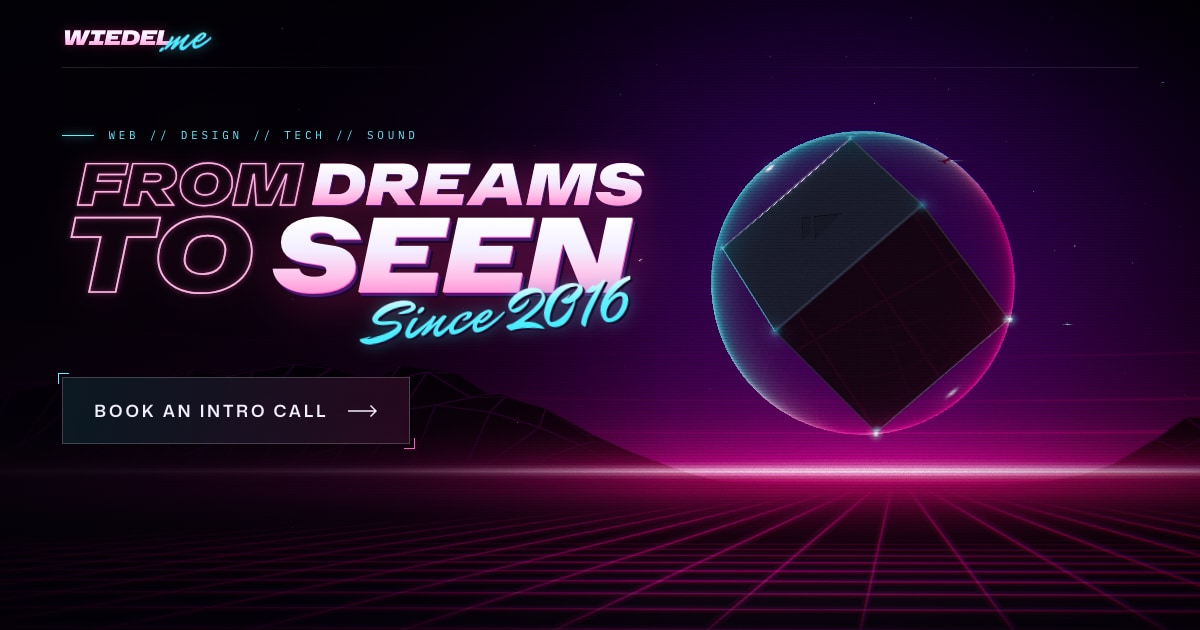
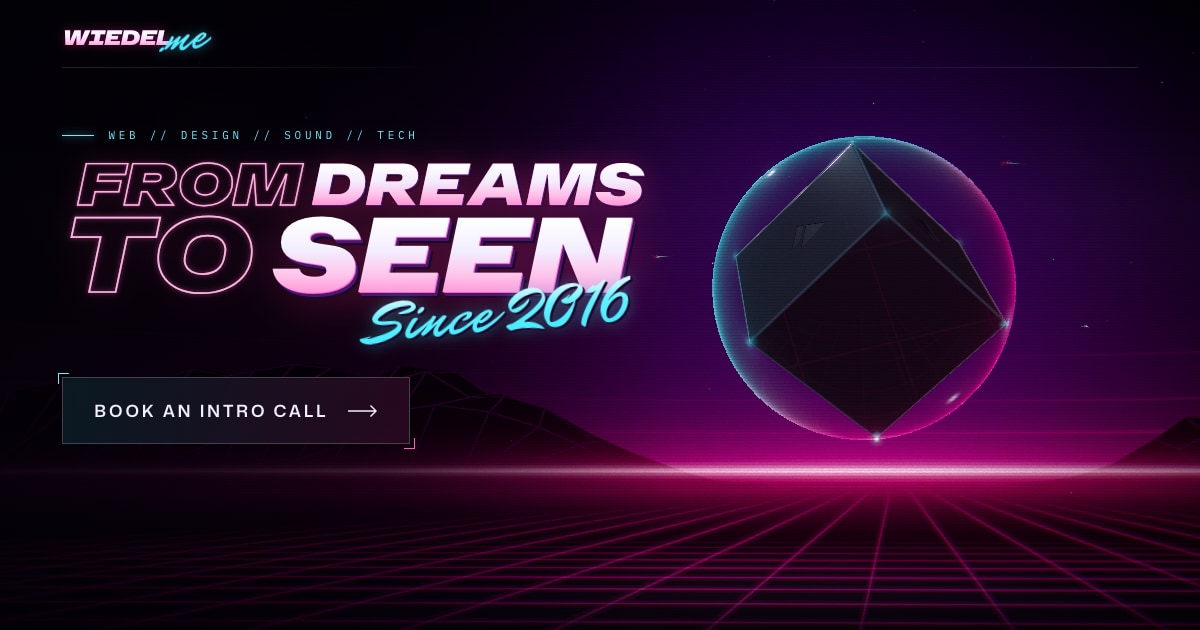
reorder the four areas to web, design, sound, tech
The title, the hero eyebrow, the footer note, the profile tags and the
numbered services (Sound is now 03, Tech 04) all follow the new order,
as do the meta and structured-data descriptions, the Services intro and
the README. The About paragraph now goes to the decks first, then
"when the music stops" to keeping your tech running. The share image is
recaptured with the new eyebrow and its alt text follows.

diff --git a/lib/services.ts b/lib/services.ts
@@ -24,7 +24,7 @@ export const homeServices: ServicesCopy = {
   title: ["Here’s what", "I can do"],
   script: "for you.",
   intro:
-    "Need a new website, a fresh logo, help with your tech, or a DJ for your next event? Whatever it is, you work directly with me from start to finish.",
+    "Need a new website, a fresh logo, a DJ for your next event, or help with your tech? Whatever it is, you work directly with me from start to finish.",
   services: [
     {
       num: "01 / WEB",
@@ -39,17 +39,17 @@ export const homeServices: ServicesCopy = {
       chips: ["Logos", "Branding", "Print", "Social"],
     },
     {
-      num: "03 / TECH",
-      title: "IT Help & Tech Support",
-      body: "Practical IT for small businesses and offices: computers, software, networks, setup, and migrations.",
-      chips: ["Small business", "Networks", "Setup", "Migrations"],
-    },
-    {
-      num: "04 / SOUND",
+      num: "03 / SOUND",
       title: "DJ & Music Production",
       body: "DJ and MC services for weddings and events, DJ lessons, and recording, mixing, and mastering for your music.",
       chips: ["Weddings & events", "DJ lessons", "Recording", "Mixing & mastering"],
       link: { label: "See DJ & music →", href: "/music/" },
+    },
+    {
+      num: "04 / TECH",
+      title: "IT Help & Tech Support",
+      body: "Practical IT for small businesses and offices: computers, software, networks, setup, and migrations.",
+      chips: ["Small business", "Networks", "Setup", "Migrations"],
     },
   ],
 };

diff --git a/lib/about.ts b/lib/about.ts
@@ -20,7 +20,7 @@ export const profile = {
   role: "Founder, Wiedel.me",
   pitch: "Web developer, designer, and DJ. One person, from first sketch to final mix.",
   photo: { src: "/img/CalebWiedel_square.jpg", width: 800, height: 800, alt: "Caleb Wiedel" },
-  tags: ["Web", "Design", "Tech", "Sound"],
+  tags: ["Web", "Design", "Sound", "Tech"],
 };
 
 export const about = {
@@ -29,7 +29,7 @@ export const about = {
   script: "Since ’91",
   paragraphs: [
     "I’m Caleb, a web developer and designer in Lincoln, Nebraska. I design your site and I build it, so it looks as good as it works. You’ll always know where things stand, and if something’s off, you’ll hear it from me early, not on launch day.",
-    "I handle the tech behind the scenes too, from computers to networks. And when the laptop closes, I’m behind the decks, DJing weddings and events and mixing music. Same care, turned up loud.",
+    "When the laptop closes, I’m behind the decks, DJing weddings and events and mixing music. Same care, turned up loud. And when the music stops, I’m still the one keeping your tech running, from computers to networks.",
   ],
   facts: [
     { label: "Direct line", body: "No account managers, no juniors. The person on the call is the person doing the work." },

diff --git a/app/layout.tsx b/app/layout.tsx
@@ -5,14 +5,14 @@ import { siteName, siteUrl } from "@/lib/site";
 import "./globals.css";
 
 const description =
-  "Caleb Wiedel: web design and development, graphic design, tech support, and DJ and music services for businesses and agencies in Lincoln, Omaha, and beyond.";
+  "Caleb Wiedel: web design and development, graphic design, DJ and music services, and tech support for businesses and agencies in Lincoln, Omaha, and beyond.";
 
 // wiedel.me's metadata, carried over. The icons come from app/icon.svg, app/apple-icon.png and
 // app/favicon.ico; robots.txt and sitemap.xml from app/robots.ts and app/sitemap.ts.
 export const metadata: Metadata = {
   metadataBase: new URL(siteUrl),
   title: {
-    default: "Wiedel.me — Web · Design · Tech · Sound | Lincoln & Omaha, NE",
+    default: "Wiedel.me — Web · Design · Sound · Tech | Lincoln & Omaha, NE",
     template: "%s | Wiedel.me",
   },
   description,

diff --git a/app/page.tsx b/app/page.tsx
@@ -24,7 +24,7 @@ const jsonLd = {
   url: siteUrl,
   logo: `${siteUrl}/img/wiedel-me-logo.svg`,
   image: `${siteUrl}/img/CalebWiedel_square.jpg`,
-  description: "Web design and development, graphic design, tech support, and DJ and music services for businesses and agencies.",
+  description: "Web design and development, graphic design, DJ and music services, and tech support for businesses and agencies.",
   founder: { "@type": "Person", name: "Caleb Wiedel", sameAs: [linkedinUrl] },
   address: { "@type": "PostalAddress", addressLocality: "Lincoln", addressRegion: "NE", addressCountry: "US" },
   areaServed: [

diff --git a/components/hero/OutrunHero.tsx b/components/hero/OutrunHero.tsx
@@ -54,7 +54,7 @@ export default function OutrunHero() {
   return (
     <HeroFrame titleId="hero-title">
       <p className={styles.eyebrow}>
-        Web {"//"} Design {"//"} Tech {"//"} Sound
+        Web {"//"} Design {"//"} Sound {"//"} Tech
       </p>
       <h1 id="hero-title" className={styles.title}>
         {/* "From" and "to" recede into outlines, so the loud words also read as "Dreams Seen Since 2016". */}

diff --git a/components/site/Footer.tsx b/components/site/Footer.tsx
@@ -11,7 +11,7 @@ export function Footer() {
         <div className={styles.brand}>
           <Wordmark />
           <p className={styles.note}>
-            <span>Web · Design · Tech · Sound</span>
+            <span>Web · Design · Sound · Tech</span>
             <span>© {new Date().getFullYear()} Caleb Wiedel | Lincoln & Omaha, NE</span>
           </p>
         </div>

diff --git a/README.md b/README.md
@@ -1,6 +1,6 @@
 # wiedel.me
 
-Caleb Wiedel's site: web, design, tech and sound for agencies and businesses in Lincoln, Omaha and
+Caleb Wiedel's site: web, design, sound and tech for agencies and businesses in Lincoln, Omaha and
 beyond. Next.js 16 (App Router, static export), React 19, TypeScript and CSS Modules.
 
 The home page opens on The Cube Within, an interactive, 80s outrun-styled WebGL hero (React Three
